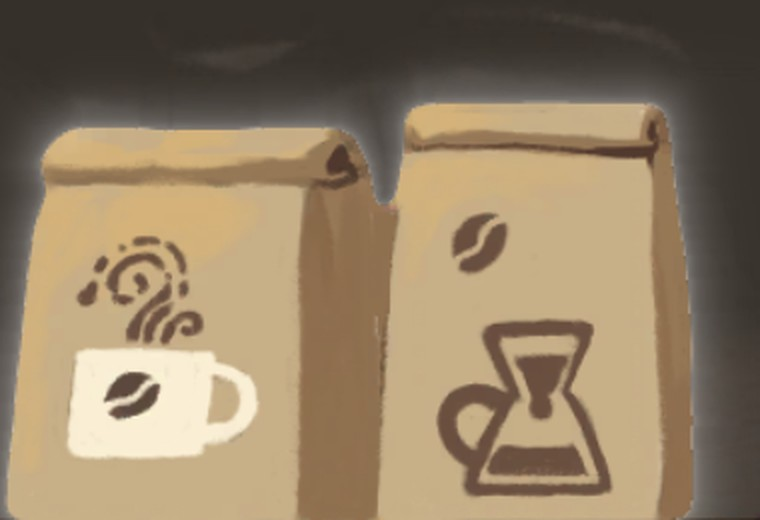
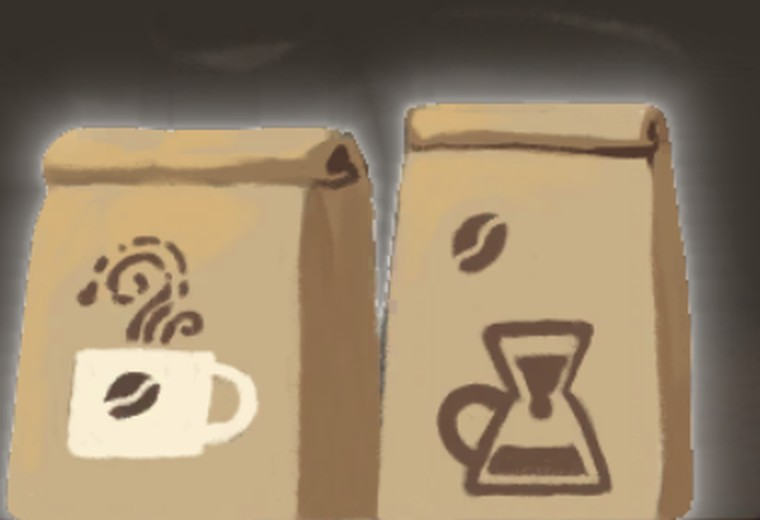
Report: five default glow strengths to pick from, coffee bags' middle as painted

Changed region(s): [[0.0, 0.1538, 0.9382, 1.0]]

diff --git a/Docs/tools/report_page/index.html b/Docs/tools/report_page/index.html
@@ -74,7 +74,8 @@ h3 small{font-weight:600;color:var(--soft);font-size:13px;margin-left:6px}
 <h2 id="next"><span class="n">1</span>Next</h2>
 <div class="grid">
 <div class="who p1"><h3>You</h3>
-<p><b>Visual check</b> of the fixes below (Current). No build until you say.</p>
+<p><b>Pick a default glow</b> (Current, first card: 1 to 5).</p>
+<p><b>Visual check</b> of the fixes below. No build until you say.</p>
 <p><b>Test build 2026.11.18 (2)</b> is in TestFlight: the cleaned cookie buttons and the shop's new crunches.</p>
 <p><b>Release:</b> the What's New words, then "build" and "submit".</p>
 </div>
@@ -88,17 +89,17 @@ h3 small{font-weight:600;color:var(--soft);font-size:13px;margin-left:6px}
 
 <h2 id="current"><span class="n">3</span>Current</h2>
 <div class="card">
-<p style="margin-top:0"><b>Glows: the default glow on the coffee bags and apples, none on the ovens, 18 November evening.</b> In the project, not in a build yet.</p>
-<figure><img src="bag_close.jpg" style="max-height:440px" alt="The coffee bags close up in the game: a smooth even outline, a faint white glow hugging it"><figcaption>The coffee bags now, close up, in the game.</figcaption></figure>
-<figure><img src="glow_tuned.jpg" style="max-height:520px" alt="Above: the coffee bags and apples with their old painted glow. Below: the bags with a smooth outline and a faint narrow white glow, the apples the same"><figcaption>Above: your test build (the painted glow). Below: now.</figcaption></figure>
-<figure><img src="kitchen_default_glow.jpg" style="max-height:640px" alt="The chapter 1 kitchen with glows on the coffee bags, apples and juice; the chapter 2 kitchen with glows on the coffee bags, blender, coconuts and juice; no glow on the ovens"><figcaption>During play. Left: chapter 1. Right: chapter 2.</figcaption></figure>
-<ul>
-<li><b>Default</b> (your pick: B's white glow held at its middle, no stars) on everything you tap in the kitchen: coffee bags, apples, blender, juice, coconuts, waffle machine.</li>
-<li><b>Coffee bags and apples:</b> the glow painted into their pictures is taken out; they now have the same glow as the rest. The apples' glow follows as apples are picked, and goes when none are left.</li>
-<li><b>Ovens:</b> no glow.</li>
-<li><b>Toned down twice</b> (you said too much, then even more): about half as bright and narrower than this afternoon, on everything with the default glow.</li>
-<li><b>The bags' outline:</b> it was rough for two reasons: the bags' dry-brush edge (the old glow hid it), and the glow being traced from a small copy of the picture, so its inner edge came in steps. Now the bags have one smooth outline, the glow is traced at twice the detail (every glow in the game), and the seam between the bags is warm brown.</li>
+<p style="margin-top:0"><b>The default glow: five strengths, pick one.</b> The same white brush as the NEW glow (B) and Ready's (C); only how wide and bright it is changes. In the project now: 4.</p>
+<figure><img src="glow_versions.jpg" style="max-height:1100px" alt="Five rows, brightest at the top: the coffee bags and apples, the chapter 2 shelf with the blender, and the juice, each with the white glow. 1 bright and wide like the NEW glow, 2 the NEW glow held at its middle (your first pick), 3 a little softer, 4 softer and narrower, 5 faintest"><figcaption>In the game. 1: as bright as the NEW glow. 2: the NEW glow at its middle (your first pick this afternoon). 3: softer. 4: softer, narrower (now). 5: faintest.</figcaption></figure>
+<ul class="checks">
+<li><label><input type="checkbox" data-id="cur.glowv.1"> 1</label></li>
+<li><label><input type="checkbox" data-id="cur.glowv.2"> 2</label></li>
+<li><label><input type="checkbox" data-id="cur.glowv.3"> 3</label></li>
+<li><label><input type="checkbox" data-id="cur.glowv.4"> 4</label></li>
+<li><label><input type="checkbox" data-id="cur.glowv.5"> 5</label></li>
 </ul>
+<p style="margin:14px 0 4px"><b>Coffee bags:</b> the middle between the two bags is as you painted it again (only the old glow taken out); the outside outline stays smooth. No glow on the ovens. The apples' glow follows as they are picked.</p>
+<figure><img src="bag_close.jpg" style="max-height:440px" alt="The coffee bags close up in the game with glow 4: a smooth outside outline, the painted gap between the bags"><figcaption>The coffee bags now (glow 4), close up.</figcaption></figure>
 <p style="margin:14px 0 4px"><b>B, new things</b> (while arranging): white glow with twinkling stars beside NEW. <b>C</b>: the gold shine sweeping over Ready.</p>
 <figure><img src="glow_new_ready.gif" style="max-height:420px" alt="The table being arranged: NEW things with white glows and twinkling stars, Ready with a gold shine sweeping across"><figcaption>The table, arranging.</figcaption></figure>
 <figure><img src="glow_kitchen_arrange.gif" style="max-height:540px" alt="The kitchen being arranged: the new cake, juice and oven with white glows and stars, Ready shining gold on the rug"><figcaption>The kitchen, arranging.</figcaption></figure>
